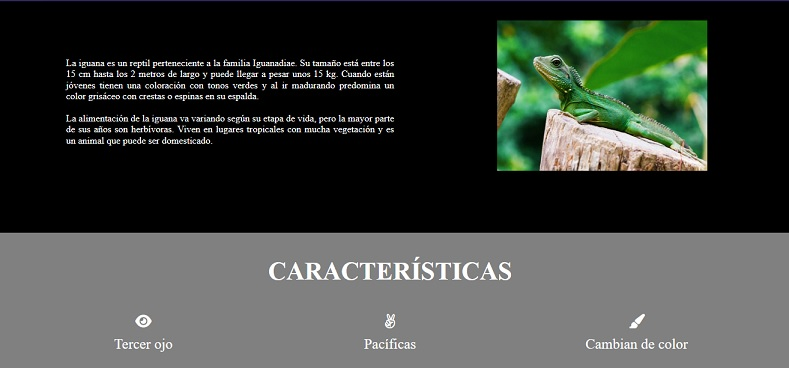
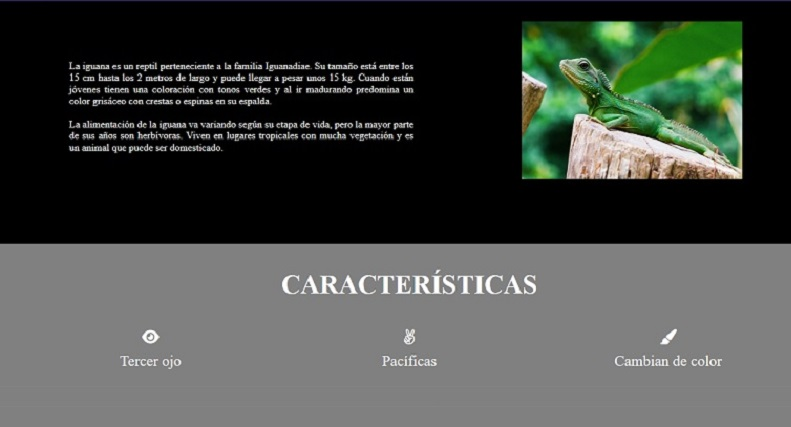
borrar header y alinear img desafios

diff --git a/index.html b/index.html
@@ -18,24 +18,10 @@
     </head>
 
     <body>
-        <header id="Hero-Section" class="text-light text-end py-5 mt-5">
-            <div class="container">
-                <div class="ms-auto col-12 col-md-7 ">
-                    <h1 class="display-1 fw-bol my-5">
-
-                    </h1>
-                    <p class="my-5">
-
-                    </p>
-                    <div class="mb-5 mt-5 pb-5">
-                        <button class="btn btn-lg btn-outline-info text-light me-4">Trabajos</button>
-                        <button class="btn btn-lg btn-info text-light">Contacto</button>
-                    </div>
-                </div>
-            </div>
+        <header>
         </header>
         <section id="Acerca-de-mi" class="container text-center my-5">
-            <h5 class="display-3 fw-bold my-4">Visión Profesional</h5>
+            <h5 class="display-4 fw-bold my-4">Visión Profesional</h5>
             <p class="my-4">
             texto descriptivo
             </p>
@@ -91,7 +77,7 @@
 
     <footer>
         <section id="Contacto" class="container my-5">
-            <h6 class="display-4 fw-bold text-center my-4">Contacto</h6>
+            <h6 class="display-6 fw-bold text-center my-4">Contacto</h6>
             <p class="text-center my-4 d-none d-md-block">Telefono: +56 9 79955488<br>Correo electrónico: leonardo.carmona.m@gmail.com</p>
         </section>
     </footer>

diff --git a/assets/css/style.css b/assets/css/style.css
@@ -4,13 +4,6 @@ body {
 
 /* Hero Section */
 
-#Hero-Section {
-  background-image: url(assets/img/img-desarrollo.jpg);
-  background-repeat: no-repeat;
-  background-size: cover;
-  background-position: center;
-}
-
 /* Mis trabajos */
 
 .card img{
